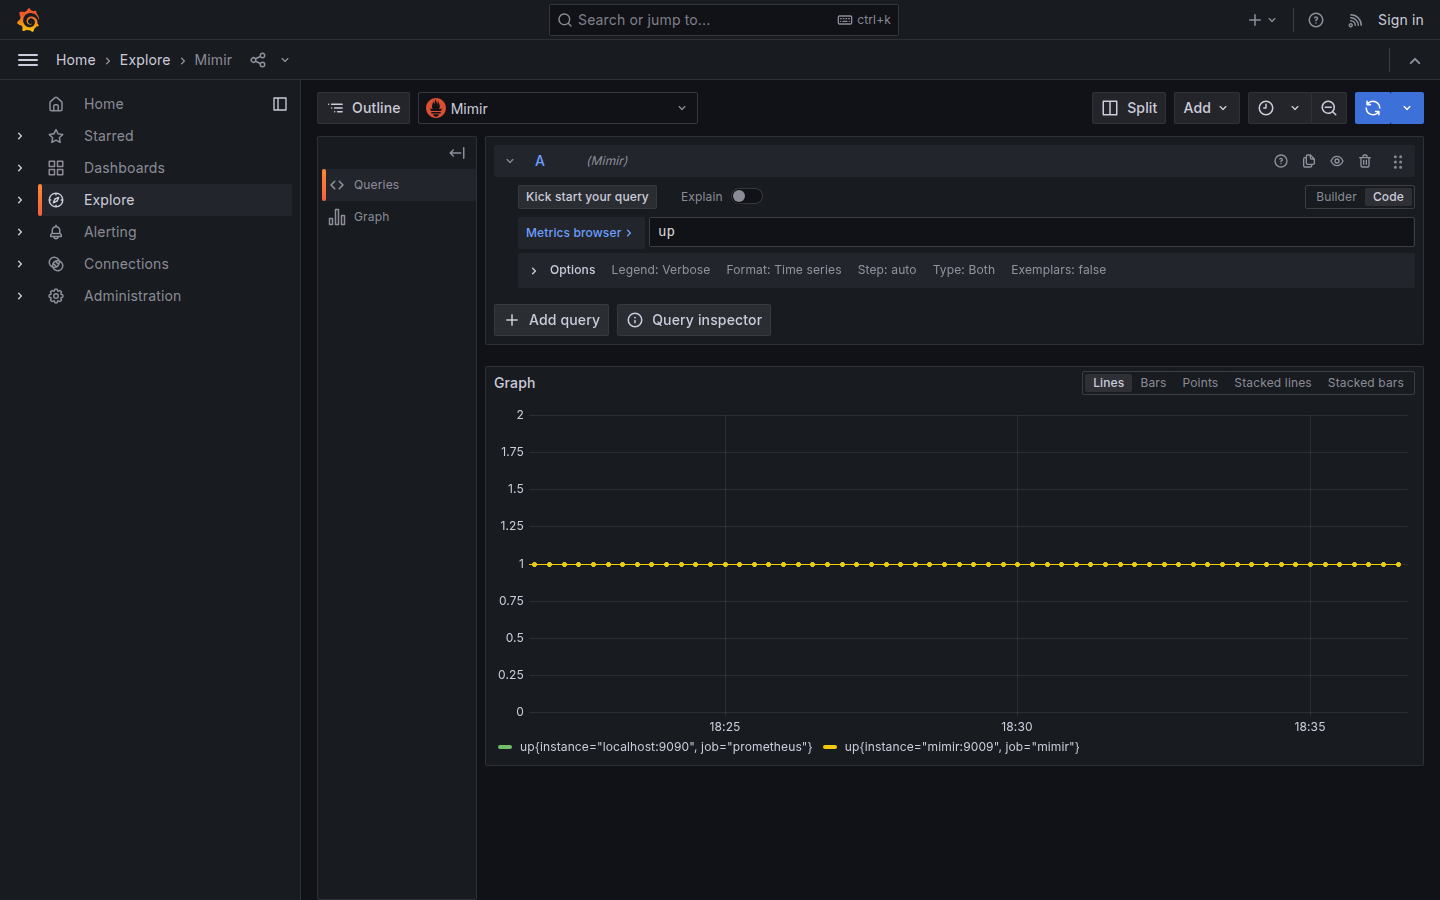
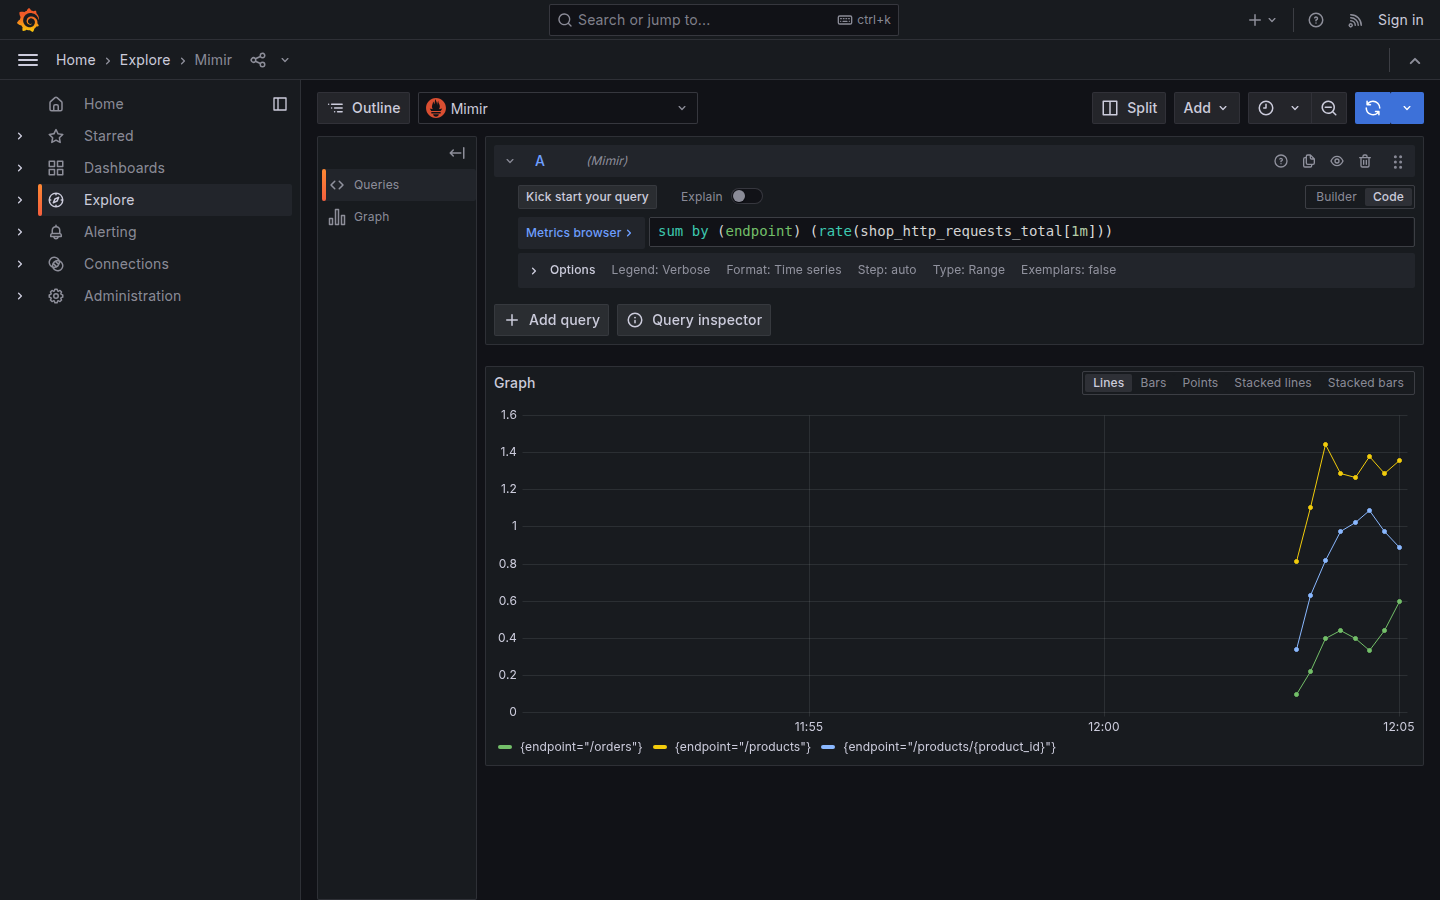
revisão post com aplicação exemplo

diff --git a/content/posts/lab-grafana-mimir-prometheus-docker-compose.md b/content/posts/lab-grafana-mimir-prometheus-docker-compose.md
@@ -16,7 +16,9 @@ O Prometheus resolve muito bem a coleta e a consulta de métricas, mas o TSDB lo
 
 O [Grafana Mimir](https://grafana.com/oss/mimir/) ataca exatamente esse problema: é um backend de métricas horizontalmente escalável, sucessor do Cortex, que recebe séries via `remote_write` e expõe uma API compatível com a do Prometheus para consulta. Na prática, o Prometheus vira um agente de coleta e o Mimir assume o papel de armazenamento central.
 
-Neste post, monto um laboratório local completo com Docker Compose: Prometheus coletando e enviando métricas, Mimir armazenando em modo single-binary e Grafana consultando tudo — além de duas armadilhas reais que encontrei no caminho.
+Neste post, monto um laboratório local completo com Docker Compose: uma aplicação de exemplo instrumentada gerando métricas de verdade, Prometheus coletando e enviando via `remote_write`, Mimir armazenando em modo single-binary e Grafana consultando tudo num dashboard pronto — além de duas armadilhas reais que encontrei no caminho.
+
+Subir os containers e ver tudo verde é fácil. O que eu queria era ver métricas de aplicação atravessando o pipeline inteiro — por isso o lab inclui uma API falsa de e-commerce com um gerador de carga em cima dela.
 
 ## Prometheus vs Thanos vs Mimir: um breve comparativo
 
@@ -39,30 +41,42 @@ Antes de pôr a mão na massa, vale situar o Mimir no ecossistema. As três ferr
 ## Arquitetura
 
 ```
-┌────────────┐  remote_write   ┌─────────┐   PromQL API    ┌─────────┐
-│ Prometheus │ ──────────────> │  Mimir  │ <────────────── │ Grafana │
-│  (scrape)  │                 │ (store) │  /prometheus    │  (viz)  │
-└────────────┘                 └────┬────┘                 └─────────┘
-                                    │
-                               mimir-data
-                               (volume)
+┌─────────┐   requisições    ┌─────────────┐
+│ loadgen │ ───────────────> │  Shop App   │
+└─────────┘                  │  (FastAPI)  │
+                             └──────┬──────┘
+                                    │ /metrics
+                                    │ scrape
+                             ┌──────┴──────┐  remote_write   ┌─────────┐
+                             │ Prometheus  │ ──────────────> │  Mimir  │
+                             └─────────────┘                 │ (store) │
+                                                             └────┬────┘
+                                        PromQL API /prometheus    │
+                                                             ┌────┴────┐
+                                                             │ Grafana │
+                                                             └─────────┘
 ```
 
-O Prometheus coleta e envia tudo via remote_write; o Grafana nunca fala com o Prometheus — consulta o Mimir pela API compatível, e só o volume do Mimir precisa persistir.
+São cinco containers. O `loadgen` bate na Shop App sem parar; a app expõe suas métricas em `/metrics`; o Prometheus coleta (da app, do Mimir e de si mesmo) e envia tudo via `remote_write`; o Grafana nunca fala com o Prometheus — consulta o Mimir pela API compatível. Só o volume do Mimir precisa persistir.
 
 ## Estrutura do projeto
 
-O lab inteiro cabe em quatro arquivos de configuração:
+Tirando o código da aplicação, o lab é só configuração:
 
 ```
 lab_mimir/
 ├── docker-compose.yml
+├── app/main.py                                 # API FastAPI instrumentada (Shop App)
+├── app/loadgen.py                              # gerador de carga
+├── app/Dockerfile
 ├── mimir/mimir.yaml                            # config do Mimir (single-binary)
 ├── prometheus/prometheus.yml                   # scrape + remote_write
-└── grafana/provisioning/datasources/mimir.yaml # datasource provisionado
+├── grafana/provisioning/datasources/mimir.yaml # datasource provisionado
+├── grafana/provisioning/dashboards/dashboards.yaml
+└── grafana/dashboards/shop.json                # dashboard da Shop App
 ```
 
-O `docker-compose.yml` orquestra os três serviços. O único volume nomeado é o do Mimir — é ele quem guarda os dados de longo prazo; o Prometheus pode perder o TSDB local sem dor, já que tudo é replicado via `remote_write`:
+O `docker-compose.yml` orquestra os cinco serviços. O único volume nomeado é o do Mimir — é ele quem guarda os dados de longo prazo; o Prometheus pode perder o TSDB local sem dor, já que tudo é replicado via `remote_write`:
 
 ```yaml
 services:
@@ -88,11 +102,27 @@ services:
     depends_on:
       - mimir
 
+  app:
+    build: ./app
+    container_name: shop-app
+    ports:
+      - "8000:8000"
+
+  loadgen:
+    build: ./app
+    container_name: loadgen
+    command: ["python", "loadgen.py"]
+    environment:
+      - APP_URL=http://app:8000
+    depends_on:
+      - app
+
   grafana:
     image: grafana/grafana:11.2.0
     container_name: grafana
     volumes:
       - ./grafana/provisioning:/etc/grafana/provisioning:ro
+      - ./grafana/dashboards:/var/lib/grafana/dashboards:ro
     ports:
       - "3000:3000"
     environment:
@@ -104,6 +134,8 @@ services:
 volumes:
   mimir-data:
 ```
+
+Repare que `app` e `loadgen` usam a mesma imagem (`build: ./app`) — o que muda é só o comando: um sobe o servidor uvicorn, o outro roda o script de carga. Economiza um Dockerfile.
 
 O login anônimo com role Admin no Grafana é confortável para laboratório — e, claro, impensável em qualquer ambiente real.
 
@@ -174,6 +206,61 @@ Minha primeira versão tinha um healthcheck com `wget` no `/ready`. Resultado: o
 
 A solução pragmática é não ter healthcheck e usar `depends_on` simples: o `remote_write` do Prometheus e o datasource do Grafana fazem retry até o Mimir responder.
 
+## A aplicação de exemplo: a Shop App
+
+Um lab que só coleta a métrica `up` prova pouco. Por isso adicionei uma API em FastAPI que simula um e-commerce simples — cinco produtos, listagem, detalhe e criação de pedidos — instrumentada com a biblioteca `prometheus-client`.
+
+As métricas são as que a gente realmente olha no dia a dia:
+
+```python
+REQUESTS = Counter(
+    "shop_http_requests_total",
+    "Total de requisições HTTP",
+    ["method", "endpoint", "status"],
+)
+LATENCY = Histogram(
+    "shop_http_request_duration_seconds",
+    "Duração das requisições HTTP",
+    ["endpoint"],
+    buckets=(0.01, 0.025, 0.05, 0.1, 0.25, 0.5, 1.0, 2.5),
+)
+ORDERS = Counter("shop_orders_total", "Total de pedidos", ["status"])
+ORDER_VALUE = Histogram("shop_order_value_brl", "Valor dos pedidos em BRL", ...)
+STOCK = Gauge("shop_products_in_stock", "Unidades em estoque (todos os produtos)")
+```
+
+Três dos quatro tipos de métrica do Prometheus aparecem aí: contador (requisições e pedidos), histograma (latência e valor do pedido) e gauge (estoque, que sobe e desce conforme os pedidos entram e a reposição acontece).
+
+A coleta acontece num middleware, que mede toda requisição sem poluir os handlers:
+
+```python
+@app.middleware("http")
+async def metrics_middleware(request: Request, call_next):
+    start = time.perf_counter()
+    response = await call_next(request)
+    route = request.scope.get("route")
+    endpoint = route.path if route else request.url.path
+    if endpoint not in ("/metrics", "/health"):
+        REQUESTS.labels(request.method, endpoint, str(response.status_code)).inc()
+        LATENCY.labels(endpoint).observe(time.perf_counter() - start)
+    return response
+```
+
+Um detalhe que faz diferença: o label `endpoint` usa `route.path`, não `request.url.path`. A diferença é entre registrar `/products/{product_id}` (uma série) ou `/products/1`, `/products/2`, `/products/3`… (uma série por produto). Esse é o caminho mais curto para uma explosão de cardinalidade — o problema número um de quem opera métricas em escala, e justamente o que o Mimir cobra via limites por tenant.
+
+Para o gráfico não ficar uma linha reta e sem graça, a app simula o mundo real: latência variável (uma gaussiana em torno de 80ms) e 5% de erros 500. O `loadgen` complementa gerando tráfego contínuo, incluindo requisições a um produto que não existe, só para render 404s:
+
+```python
+roll = random.random()
+if roll < 0.50:
+    client.get("/products")
+elif roll < 0.85:
+    # ids 1-6: o 6 não existe e gera 404s para o dashboard
+    client.get(f"/products/{random.randint(1, 6)}")
+else:
+    client.post("/orders", json={...})
+```
+
 ## Prometheus e Grafana: as duas pontas
 
 No Prometheus, a única novidade em relação a um setup comum é o bloco `remote_write`, apontando para o endpoint de push do Mimir:
@@ -194,9 +281,13 @@ scrape_configs:
   - job_name: mimir
     static_configs:
       - targets: ["mimir:9009"]
+
+  - job_name: shop-app
+    static_configs:
+      - targets: ["app:8000"]
 ```
 
-O próprio Mimir expõe métricas em `/metrics`, então ele também vira alvo de scrape — monitorar o backend de monitoramento é de graça aqui.
+São três jobs: a aplicação, o Prometheus e o próprio Mimir — que também expõe `/metrics`. Monitorar o backend de monitoramento sai de graça aqui.
 
 No Grafana, o datasource é provisionado por arquivo — nada de configurar na UI. O detalhe importante é a URL: o Mimir expõe a API compatível com Prometheus sob o prefixo `/prometheus`:
 
@@ -213,18 +304,34 @@ datasources:
     editable: true
 ```
 
-Fixar o `uid` parece detalhe, mas evita dor de cabeça: dashboards exportados referenciam o datasource pelo uid, e sem ele cada reprovisionamento gera um uid aleatório novo — quebrando os dashboards importados.
+Fixar o `uid` parece detalhe, mas evita dor de cabeça: dashboards exportados referenciam o datasource pelo uid, e sem ele cada reprovisionamento gera um uid aleatório novo — quebrando os dashboards importados. Com o uid fixo em `mimir`, o `shop.json` do lab referencia o datasource com segurança.
 
 ![Lista de datasources do Grafana com o Mimir provisionado como default](/images/mimir-grafana-datasource.png)
 
 *O datasource Mimir já aparece como default no primeiro acesso — nenhum clique na UI foi necessário.*
 
+Os dashboards seguem a mesma lógica de provisionamento por arquivo:
+
+```yaml
+apiVersion: 1
+
+providers:
+  - name: default
+    orgId: 1
+    type: file
+    updateIntervalSeconds: 30
+    options:
+      path: /var/lib/grafana/dashboards
+```
+
+O `updateIntervalSeconds: 30` é o detalhe que torna o ciclo de edição agradável: o Grafana relê os JSONs a cada 30 segundos, então dá para editar o dashboard no arquivo e ver o resultado sem reiniciar container nenhum.
+
 ## Subindo e validando o fluxo
 
-Um comando sobe tudo:
+Um comando sobe tudo (o `--build` compila a imagem da Shop App na primeira vez):
 
 ```bash
-docker compose up -d
+docker compose up -d --build
 ```
 
 O ingester tem um warm-up de 15 segundos antes de aceitar escrita — é normal o `/ready` responder `Ingester not ready: waiting for 15s after being ready` logo após o start. Depois disso:
@@ -237,33 +344,60 @@ curl http://localhost:9009/ready
 # 2. As métricas estão chegando via remote_write?
 # (consulta feita NO MIMIR, não no Prometheus)
 curl 'http://localhost:9009/prometheus/api/v1/query?query=count(up)'
-# {"status":"success",..."value":[...,"2"]}
+# {"status":"success",..."value":[...,"3"]}
 ```
 
-O `count(up)` retornando `2` é a prova do fluxo completo: os dois jobs de scrape (prometheus e mimir) foram coletados pelo Prometheus, enviados via `remote_write` e consultados direto na API do Mimir.
+O `count(up)` retornando `3` é a prova do fluxo completo: os três jobs de scrape (shop-app, prometheus e mimir) foram coletados pelo Prometheus, enviados via `remote_write` e consultados direto na API do Mimir.
 
-![Página de targets do Prometheus com os jobs mimir e prometheus em estado UP](/images/mimir-prometheus-targets.png)
+Mais interessante que o `up`, porém, é perguntar ao Mimir sobre a aplicação:
 
-*Os dois targets em estado UP na página `/targets` do Prometheus: a coleta está funcionando.*
+```bash
+# requisições/s por endpoint
+curl -sG 'http://localhost:9009/prometheus/api/v1/query' \
+  --data-urlencode 'query=sum by (endpoint) (rate(shop_http_requests_total[1m]))'
 
-Por fim, o Grafana em `http://localhost:3000` já abre com o datasource **Mimir** como default — qualquer query PromQL no Explore consulta o Mimir, não o Prometheus.
+# latência p95
+curl -sG 'http://localhost:9009/prometheus/api/v1/query' \
+  --data-urlencode 'query=histogram_quantile(0.95, sum by (le) (rate(shop_http_request_duration_seconds_bucket[5m])))'
+```
 
-![Grafana Explore consultando a métrica up no datasource Mimir, com as duas séries no gráfico](/images/mimir-grafana-explore.png)
+O `-G` com `--data-urlencode` não é frescura: PromQL é cheio de espaços, parênteses e colchetes, e jogar isso direto na query string entrega uma URL inválida — o `curl` manda assim mesmo e a resposta vem vazia, sem erro nenhum que explique o motivo. Já perdi tempo com isso.
 
-*A query `up` no Explore, respondida pelo Mimir: as duas séries chegaram via remote_write.*
+Essas respostas vêm do Mimir, não do Prometheus — ou seja, a métrica saiu da aplicação, passou pelo scrape, atravessou o `remote_write` e está sendo servida pelo armazenamento central. É o pipeline inteiro provado com dois `curl`.
+
+![Página de targets do Prometheus com os jobs shop-app, mimir e prometheus em estado UP](/images/mimir-prometheus-targets.png)
+
+*Os três targets em estado UP na página `/targets` do Prometheus: a coleta está funcionando.*
+
+A mesma pergunta, em forma de gráfico, no Explore do Grafana (`http://localhost:3000`):
+
+![Grafana Explore mostrando requisições por segundo por endpoint, consultadas no datasource Mimir](/images/mimir-grafana-explore.png)
+
+*Requisições/s por endpoint, respondidas pelo Mimir. Repare na legenda: `/products/{product_id}` é uma série só, não uma por produto.*
+
+E o dashboard da Shop App é provisionado junto, sem nenhum clique na UI — requisições por endpoint, latência p50/p95, taxa de erro, estoque, pedidos por minuto e ticket médio, tudo lendo do Mimir:
+
+![Dashboard Shop App no Grafana com seis painéis de métricas da aplicação](/images/mimir-shop-dashboard.png)
+
+*O dashboard provisionado em `grafana/dashboards/shop.json`, com refresh de 10s. A taxa de erro gira em torno dos 5% simulados na aplicação.*
 
 Para conferir que os dados do ingester estão mesmo persistindo no volume (a Armadilha 1 resolvida):
 
 ```bash
 docker run --rm -v lab_mimir_mimir-data:/data alpine ls /data
-# blocks  tsdb
+# blocks  compactor  tsdb  tsdb-sync
+
+docker run --rm -v lab_mimir_mimir-data:/data alpine ls /data/tsdb
+# anonymous
 ```
 
-O `tsdb/anonymous` é o TSDB do tenant "anonymous" — o nome que o Mimir usa para o tenant único quando `multitenancy_enabled: false`.
+O `tsdb/anonymous` é o TSDB do ingester para o tenant "anonymous" — o nome que o Mimir usa para o tenant único quando `multitenancy_enabled: false`. Em `blocks/` ficam os blocos já compactados, o equivalente ao que iria para o S3 num ambiente real.
 
 ## Conclusão e próximos passos
 
-Com quatro arquivos de configuração, o lab reproduz a arquitetura essencial de métricas de longo prazo: Prometheus como coletor, Mimir como armazenamento central e Grafana como camada de visualização. As duas armadilhas — o `tsdb.dir` fora do volume e o healthcheck impossível na imagem distroless — são o tipo de detalhe que só aparece quando se valida o fluxo de verdade, não só quando os containers sobem.
+Com um punhado de arquivos de configuração e uma API de brinquedo, o lab reproduz a arquitetura essencial de métricas de longo prazo: aplicação instrumentada, Prometheus como coletor, Mimir como armazenamento central e Grafana como camada de visualização. As duas armadilhas — o `tsdb.dir` fora do volume e o healthcheck impossível na imagem distroless — são o tipo de detalhe que só aparece quando se valida o fluxo de verdade, não só quando os containers sobem.
+
+A aplicação de exemplo mudou o lab de lugar: em vez de olhar a métrica `up` e concluir que "está funcionando", dá para fazer as perguntas que a gente realmente faz em produção — qual é a latência p95, quanto da carga está falhando, o que acontece com o ticket médio — e ver cada uma delas sendo respondida pelo Mimir.
 
 Alguns caminhos naturais para evoluir o lab:
 
